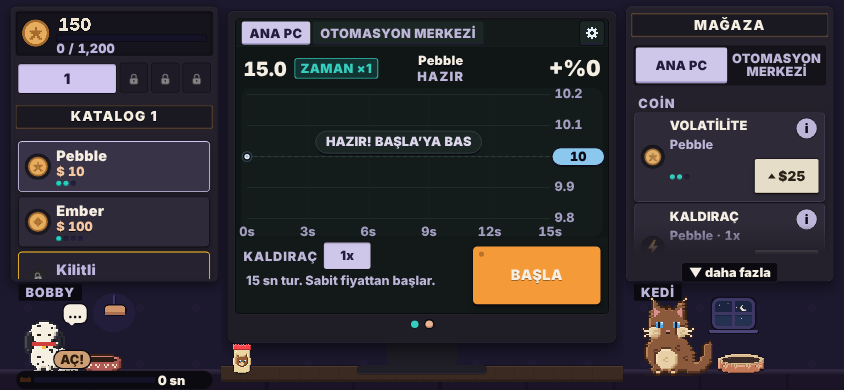
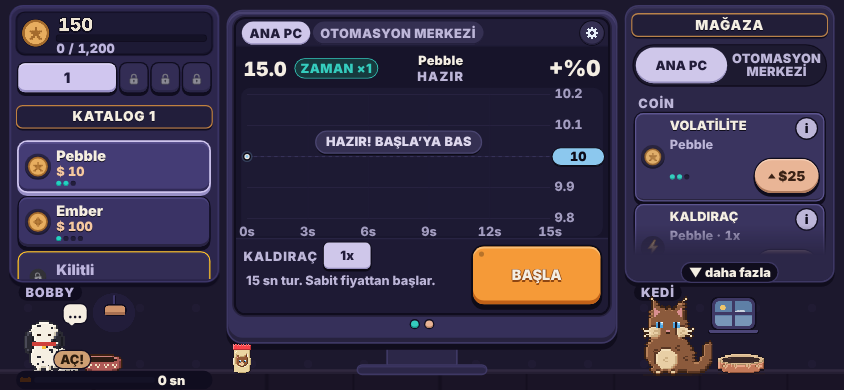
Tasarım Adım 5b: Adım 4 canlılığı korundu; masaüstü ölçüleri, odometre bakiye, mama ease-out, termal fiş — smoke 63/63
Claude-Session: https://claude.ai/code/session_01VDVDeJVYoXzWZHeVKGLAfX

diff --git a/index.html b/index.html
@@ -1038,6 +1038,114 @@ body.rm .pl{animation:none!important;transform:translate(-50%,-50%)!important}
 #stage.tel .info{top:12px!important;right:18px!important}#stage.tel #right .go{height:80px!important}#stage.tel #right .sc:not(.bob):not(.rcoin) .sm b{padding-right:60px!important}
 #stage.tel #right .go{z-index:2}#stage.tel .info{z-index:3}
 #cico{image-rendering:auto!important}
+
+/* =====================================================================
+   TUR 2 / ADIM 5b — Adım 4'ün renkleri ve canlılığı aynen; masaüstü (#stage:not(.tel)) için bilgisayara uygun ölçü ve oran.
+   Çocuksuluk renkle değil ORANLA azaltıldı: ağırlık 900→800, köşe yarıçapı küçük, alt basamak 6–9→3–5 px, dolgular sıkı.
+   Telefon (#stage.tel) Adım 4 ölçüleriyle aynen kalır.
+   ===================================================================== */
+body{font-variant-numeric:tabular-nums}
+/* ağırlık ve harf aralığı */
+#stage:not(.tel) :is(.tn b,.tn .num,.sm b,.sm .st,.sign,.shd,.tb,#right .go,.mx,.sw,.br small,#stabs button,.osbar .tabs button,#hT,#hN,#lcdS,#lcdT,#hP,#hPs,#lvr,#lvr .pbtn,#note,#main,.botp .cap,#shint,#cnx,.rc .rh b,.it,.mh,.mp p,.mp .pbtn,#news,.chin span,#receipt){font-weight:800!important}
+#stage:not(.tel) :is(.sm .st,#note,.mp p,#hPs,.br small){font-weight:700!important}
+#stage:not(.tel) :is(.tn b,.sm b,.rc .rh b){letter-spacing:.2px!important;text-shadow:0 1px 0 var(--k-ol)!important}
+#stage:not(.tel) :is(.sign,#sign,#msign){letter-spacing:1.5px!important}
+/* paneller ve monitör: daha az şişkin */
+#stage:not(.tel) #left::before,#stage:not(.tel) #right::before{border-radius:18px!important;box-shadow:0 0 0 4px var(--k-rim),0 6px 0 4px var(--k-ol),inset 0 3px 0 #3A3459!important}
+#stage:not(.tel) #mon{border-radius:24px!important;box-shadow:0 0 0 4px var(--k-rim),0 8px 0 4px var(--k-ol),inset 0 4px 0 #48416F,inset 0 -6px 0 #27223E!important}
+#stage:not(.tel) .swrap{border-radius:14px!important}#stage:not(.tel) .screen{clip-path:inset(0 round 12px)!important}
+#stage:not(.tel) #cashp{border-radius:14px!important;height:92px!important}
+/* coin kartları */
+#stage:not(.tel) .tk{height:76px!important;margin:4px 8px 10px!important;padding:6px 12px!important;gap:10px!important;border-radius:12px!important;
+ box-shadow:0 0 0 2px var(--k-ol),0 4px 0 2px var(--k-ol),inset 0 2px 0 var(--k-cdl),inset 0 -4px 0 var(--k-cde)!important}
+#stage:not(.tel) .tk.on{box-shadow:0 0 0 3px var(--k-li),0 4px 0 3px var(--k-lid),inset 0 2px 0 #5A5288,inset 0 -4px 0 #312B52!important}
+#stage:not(.tel) .tk.boss{margin-top:16px!important;box-shadow:0 0 0 2px var(--k-ol),0 4px 0 2px var(--k-ol),inset 0 2px 0 #5D4166,inset 0 -4px 0 #36243C!important}
+#stage:not(.tel) .tk.boss.on{box-shadow:0 0 0 3px var(--k-li),0 4px 0 3px var(--k-lid),inset 0 2px 0 #5D4166,inset 0 -4px 0 #36243C!important}
+#stage:not(.tel) .tk.lk{box-shadow:0 0 0 2px var(--k-ol),0 4px 0 2px var(--k-ol),inset 0 0 0 2px #3B3659!important}
+#stage:not(.tel) .tk.lk.nx{box-shadow:0 0 0 2px var(--k-au),0 4px 0 2px var(--k-ol),inset 0 0 0 2px #3B3659!important}
+#stage:not(.tel) .tk .ci{width:46px!important;height:46px!important;padding:4px}
+#stage:not(.tel) .tn b{font-size:19px!important}
+#stage:not(.tel) .tn .num,#stage:not(.tel) #list .tn .num{font-size:17px!important;margin:0 0 3px!important}
+#stage:not(.tel) .tk.lk .tn b{font-size:18px!important}#stage:not(.tel) .tk.lk img.lkic{width:30px!important;height:30px!important}
+#stage:not(.tel) .tk .lkp small{font-size:17px}#stage:not(.tel) .tk .lkp .lbar{height:9px}
+#stage:not(.tel) .tk .bb{font-size:12px!important;line-height:20px!important;top:-10px!important;padding:0 8px!important}
+#stage:not(.tel) .sg i{flex-basis:9px!important;height:9px!important}#stage:not(.tel) .sg{height:11px!important;gap:4px!important}
+/* sekmeler ve başlık plakaları */
+#stage:not(.tel) #tabs{height:50px!important}
+#stage:not(.tel) .tb,#stage:not(.tel) #tabs .tb{height:38px!important;font-size:18px!important;border-radius:10px!important;box-shadow:0 0 0 2px var(--k-ol),0 4px 0 2px var(--k-ol),inset 0 2px 0 var(--k-cdl),inset 0 -3px 0 var(--k-cde)!important}
+#stage:not(.tel) .tb.on,#stage:not(.tel) #tabs .tb.on{box-shadow:0 0 0 2px var(--k-ol),0 4px 0 2px var(--k-ol),inset 0 2px 0 var(--k-lil),inset 0 -3px 0 var(--k-lid)!important}
+#stage:not(.tel) #tabs .tb.lk img{width:18px!important;height:18px!important}
+#stage:not(.tel) .sign,#stage:not(.tel) #sign,#stage:not(.tel) #msign{height:38px!important;line-height:38px!important;font-size:19px!important;margin:8px 8px 6px!important;border-radius:10px!important;box-shadow:inset 0 0 0 2px #B9824A,0 3px 0 0 var(--k-ol)!important}
+#stage:not(.tel) #robsec .rsign{height:34px!important;line-height:34px!important;font-size:15px!important;border-radius:10px!important}
+#stage:not(.tel) #cnx{font-size:16px!important;top:66px!important}#stage:not(.tel) #cbar{top:52px!important;height:12px!important}
+/* mağaza */
+#stage:not(.tel) #stabs{margin:4px 12px 2px!important}
+#stage:not(.tel) #stabs button{height:36px!important;font-size:13px!important}
+#stage:not(.tel) .shd,#stage:not(.tel) #right .shd{font-size:15px!important;letter-spacing:2px!important;margin:10px 4px 2px!important}
+#stage:not(.tel) #shop{gap:10px!important;padding:6px 12px 70px!important}
+#stage:not(.tel) .sc,#stage:not(.tel) .rc{min-height:0!important;padding:10px 12px 12px!important;border-radius:12px!important;margin-bottom:4px;
+ box-shadow:0 0 0 2px var(--k-ol),0 4px 0 2px var(--k-ol),inset 0 2px 0 var(--k-cdl),inset 0 -4px 0 var(--k-cde)!important}
+#stage:not(.tel) .sc.can{box-shadow:0 0 0 2px var(--k-ol),0 4px 0 2px var(--k-ol),inset 0 0 0 2px #5D5590,inset 0 -4px 0 var(--k-cde)!important}
+#stage:not(.tel) .sc.lk{box-shadow:0 0 0 2px var(--k-ol),0 4px 0 2px var(--k-ol),inset 0 0 0 2px #3B3659!important}
+#stage:not(.tel) .sc.fin{box-shadow:0 0 0 3px var(--k-au),0 4px 0 3px var(--k-aud),inset 0 2px 0 #7A63C6!important}
+#stage:not(.tel) .sc .si{width:44px!important;height:44px!important}#stage:not(.tel) .sc .si img{width:32px!important;height:32px!important}
+#stage:not(.tel) #right .sc:not(.bob):not(.rcoin){grid-template-columns:44px minmax(0,1fr) auto!important;column-gap:10px!important}
+#stage:not(.tel) .sm b,#stage:not(.tel) #right .sm b{font-size:17px!important}
+#stage:not(.tel) .sm .st{font-size:14px!important}
+#stage:not(.tel) #right .go{height:32px!important;font-size:16px!important;min-width:84px!important;padding:0 12px!important;margin:0 0 4px!important;border-radius:10px!important;
+ box-shadow:0 0 0 2px var(--k-ol),0 3px 0 2px var(--k-ol),inset 0 2px 0 var(--k-pel),inset 0 -3px 0 var(--k-ped)!important}
+#stage:not(.tel) #right .go[data-dis],#stage:not(.tel) #right .go.unl[data-dis]{box-shadow:0 0 0 1px #8A84AA,0 0 0 3px var(--k-ol),0 3px 0 3px var(--k-ol),inset 0 -3px 0 #39345A!important}
+#stage:not(.tel) #right .go.unl{box-shadow:0 0 0 2px var(--k-ol),0 3px 0 2px var(--k-ol),inset 0 2px 0 #7BE6DA,inset 0 -3px 0 var(--k-tqd)!important}
+#stage:not(.tel) #right .go:not([data-dis]):active{transform:translateY(3px)!important;box-shadow:0 0 0 2px var(--k-ol),0 0 0 2px var(--k-ol),inset 0 2px 0 var(--k-pel),inset 0 -2px 0 var(--k-ped)!important}
+#stage:not(.tel) #right .go i.up{border-left-width:5px!important;border-right-width:5px!important;border-bottom-width:7px!important}
+#stage:not(.tel) .mx,#stage:not(.tel) #right .mx{font-size:13px!important;line-height:24px!important;border-radius:8px!important}
+#stage:not(.tel) .info{width:22px!important;height:22px!important;font-size:13px!important;line-height:22px!important;box-shadow:0 0 0 2px var(--k-ol)!important}
+#stage:not(.tel) .sw,#stage:not(.tel) #right .sw,#stage:not(.tel) #right .sc.bob .bh .sw{width:92px!important;height:32px!important;font-size:13px!important;line-height:32px!important;padding:0 8px 0 34px!important;box-shadow:0 0 0 2px var(--k-ol),inset 0 3px 0 #3A3558!important}
+#stage:not(.tel) .sw.on,#stage:not(.tel) #right .sw.on{padding:0 34px 0 8px!important;box-shadow:0 0 0 2px var(--k-ol),inset 0 3px 0 #1E9C90!important}
+#stage:not(.tel) .sw i{width:24px!important;height:24px!important;top:4px!important;left:4px!important}#stage:not(.tel) .sw.on i{left:auto!important;right:4px!important}
+#stage:not(.tel) .br small,#stage:not(.tel) #right .sc.bob .br small{font-size:14px!important}
+#stage:not(.tel) #right .sc.bob .bh .st{font-size:13px!important}
+#stage:not(.tel) .br .pbtn{width:40px!important;height:32px!important;border-radius:10px!important;box-shadow:0 0 0 2px var(--k-ol),0 3px 0 2px var(--k-ol),inset 0 -3px 0 var(--k-ped)!important}
+#stage:not(.tel) .br .pbtn img{width:22px!important;height:22px!important}
+#stage:not(.tel) .rc .rh b{font-size:17px!important}#stage:not(.tel) .rc .rh small{font-size:14px!important}
+#stage:not(.tel) #shint{font-size:14px!important;line-height:24px!important}
+/* hayvan köşeleri */
+#stage:not(.tel) .botp .cap{font-size:15px!important;line-height:24px!important;padding:0 10px!important;border-radius:8px!important}
+#stage:not(.tel) #bbub{top:34px!important}
+/* monitör içi */
+#stage:not(.tel) .osbar .tabs button{font-size:13px!important;height:26px!important}
+#stage:not(.tel) #hT{font-size:40px!important}#stage:not(.tel) #hN{font-size:22px!important}
+#stage:not(.tel) #lcdT{font-size:13px!important;line-height:24px!important}#stage:not(.tel) #lcdS{font-size:13px!important}
+#stage:not(.tel) #hP{font-size:38px!important}#stage:not(.tel) #hPs{font-size:13px!important}#stage:not(.tel) #hP[data-d]::before{font-size:20px}
+#stage:not(.tel) #lvr{font-size:14px!important}
+#stage:not(.tel) #lvr .pbtn{height:32px!important;min-width:48px!important;font-size:16px!important;border-radius:8px!important;box-shadow:0 0 0 2px #0D0B17,0 3px 0 2px #0D0B17,inset 0 -3px 0 #2A1F52!important}
+#stage:not(.tel) #lvr .pbtn.ac{box-shadow:0 0 0 2px #0D0B17,0 3px 0 2px #0D0B17,inset 0 -3px 0 var(--k-lid)!important}
+#stage:not(.tel) #lvr .lvh{font-size:14px}
+#stage:not(.tel) #note{font-size:16px!important}
+#stage:not(.tel) #main{width:270px!important;height:68px!important;font-size:28px;border-radius:16px!important;letter-spacing:.5px!important;
+ box-shadow:0 0 0 3px #0D0B17,0 5px 0 3px #0D0B17,inset 0 3px 0 #F8BD75,inset 0 -5px 0 var(--k-ord)!important}
+#stage:not(.tel) #main.buy{box-shadow:0 0 0 3px #0D0B17,0 5px 0 3px #0D0B17,inset 0 3px 0 #7DD8CD,inset 0 -5px 0 #1C8A7F!important}
+#stage:not(.tel) #main.sell{box-shadow:0 0 0 3px var(--k-li),0 0 0 5px #0D0B17,0 4px 0 5px #0D0B17,inset 0 3px 0 #8EDBBC,inset 0 -4px 0 #2E8C68!important}
+#stage:not(.tel) #main.sell.dn{box-shadow:0 0 0 3px var(--k-li),0 0 0 5px #0D0B17,0 4px 0 5px #0D0B17,inset 0 3px 0 #4C4577,inset 0 -4px 0 #29243F!important}
+#stage:not(.tel) #main:not(:disabled):active{transform:translateY(4px)!important}
+#stage:not(.tel) #main:disabled{box-shadow:none!important}
+#stage:not(.tel) .chin span{font-size:15px!important;border-radius:8px!important}
+#stage:not(.tel) #news{font-size:17px!important}
+#stage:not(.tel) .screen.bossin #hN::after{font-size:12px;line-height:20px}
+#stage:not(.tel) .tile,#stage:not(.tel) .tile:nth-child(odd){border-radius:12px!important}
+#stage:not(.tel) #scene .mp,#stage:not(.tel) .mp{border-radius:18px!important;box-shadow:0 0 0 4px var(--k-rim),0 0 0 6px var(--k-ol),0 8px 0 6px var(--k-ol),inset 0 3px 0 #3A3459!important}
+#stage:not(.tel) #scene .it,#stage:not(.tel) .it{font-size:17px!important;padding:8px 0!important}#stage:not(.tel) #scene .mp p,#stage:not(.tel) .mp p{font-size:16px!important}
+#stage:not(.tel) #scene .mh,#stage:not(.tel) .mh{font-size:24px!important}
+#stage:not(.tel) #scene .mp .pbtn,#stage:not(.tel) .mp .pbtn{height:32px!important;font-size:14px!important;box-shadow:0 0 0 2px var(--k-ol),0 3px 0 2px var(--k-ol),inset 0 -3px 0 #463673!important}
+#stage:not(.tel) #scene .mp .pbtn.on,#stage:not(.tel) .mp .pbtn.on{box-shadow:0 0 0 2px var(--k-ol),0 3px 0 2px var(--k-ol),inset 0 -3px 0 var(--k-tqd)!important}
+#stage:not(.tel) #mc{width:38px!important;height:38px!important}#stage:not(.tel) #mc::before,#stage:not(.tel) #mc::after{left:10px;top:16px;width:18px}
+/* tur sonu fişi: termal kâğıt; kâr/zarar renkleri canlı */
+#receipt{background:#EFE8D8!important;color:#2A2520!important;font-family:"JetBrains Mono","SF Mono","Cascadia Mono","Roboto Mono",ui-monospace,Menlo,Consolas,monospace!important;font-weight:700!important;border-radius:0!important;padding:12px 16px 18px!important;
+ box-shadow:0 6px 14px rgba(0,0,0,.45)!important;-webkit-mask-image:linear-gradient(135deg,transparent 4px,#000 0) bottom left/8px 8px repeat-x,linear-gradient(#000,#000) top/100% calc(100% - 6px) no-repeat;mask-image:linear-gradient(135deg,transparent 4px,#000 0) bottom left/8px 8px repeat-x,linear-gradient(#000,#000) top/100% calc(100% - 6px) no-repeat}
+#receipt h3{font-family:inherit!important;letter-spacing:2px!important;text-align:center;border-bottom:2px dashed #A79F8E;color:#2A2520!important}
+#receipt h3.up{color:#16805F!important}#receipt h3.dn{color:#9A5C1E!important}
+#receipt .rw,#receipt .strip{border-top:1px dashed #B5AD9C!important;color:#2A2520!important}
+#receipt .up{color:#16805F!important}#receipt .dn{color:#9A5C1E!important}#receipt .strip{color:#5A5248!important}
 </style><style>/* === TELEFON: hep yatay oyun (dikeyde 90° döndürülür), sayfa kaymaz, çift dokunuşta büyümez === */
 html,body{position:fixed;inset:0;width:100%;height:100%;overflow:hidden;margin:0;overscroll-behavior:none;-webkit-user-select:none;user-select:none;-webkit-touch-callout:none;-webkit-tap-highlight-color:transparent;-webkit-text-size-adjust:100%}
 *{touch-action:manipulation}canvas,img{-webkit-user-drag:none}#list,#shop,.modal .mp,#mb{touch-action:pan-x pan-y;-webkit-overflow-scrolling:touch}
@@ -1581,10 +1689,19 @@ function numTip(u){const v=Number(u)/1e4,fr=u%10000n,full=(u/10000n).toLocaleStr
 /* v33: eski kart/sayı hover ipuçları kaldırıldı; yeni sistem view_i (yalnız 'i' ikonları) */
 /* K3: para yazısı — yuvarlak kalın yazı, koyu kontur + alt gölge (2x çözünürlük) */
 const KF='ui-rounded, "SF Pro Rounded", "Nunito", "Varela Round", "Arial Rounded MT Bold", "Trebuchet MS", system-ui, sans-serif';
-function ckCash(txt){const cv=$('#cashv'),x=cv.getContext('2d');let fs=84;x.font='900 '+fs+'px '+KF;while(x.measureText(txt).width>440&&fs>40){fs-=4;x.font='900 '+fs+'px '+KF}
- const w=Math.ceil(x.measureText(txt).width)+24,h=104;if(cv.width!==w||cv.height!==h){cv.width=w;cv.height=h}x.clearRect(0,0,w,h);x.font='900 '+fs+'px '+KF;x.textBaseline='middle';x.lineJoin='round';
- const y=h/2-2;x.lineWidth=14;x.strokeStyle='#100D1D';x.strokeText(txt,12,y+6);x.fillStyle='#100D1D';x.fillText(txt,12,y+6);x.strokeText(txt,12,y);x.fillStyle='#EDE5D6';x.fillText(txt,12,y);
- x.save();x.beginPath();x.rect(0,0,w,y-fs*.08);x.clip();x.fillStyle='#F6F0E6';x.fillText(txt,12,y);x.restore()}
+/* Tur 2/Adım 5b: bakiye odometresi — değişen hane eskisi yukarı kayarken yenisi alttan gelir (450 ms, ease-out);
+   haneler sabit genişlikte (tabular); hareket azaltmada anında. Renk/kontur Adım 4 ile aynı. */
+const ODO={cur:'',from:'',to:'',t0:0,raf:0};
+function odoDraw(a,b,k){const cv=$('#cashv'),x=cv.getContext('2d'),n=Math.max(a.length,b.length);a=a.padStart(n,' ');b=b.padStart(n,' ');
+ let fs=TEL?84:76;const F=f=>'800 '+f+'px '+KF;x.font=F(fs);const cw=c=>/[0-9 ]/.test(c)?x.measureText('0').width:x.measureText(c).width;
+ const wid=()=>{let w=0;for(let i=0;i<n;i++)w+=Math.max(cw(a[i]),cw(b[i]));return w};while(wid()>440&&fs>40){fs-=4;x.font=F(fs)}
+ const W=Math.ceil(wid())+24,H=104;if(cv.width!==W||cv.height!==H){cv.width=W;cv.height=H}x.clearRect(0,0,W,H);x.font=F(fs);x.textBaseline='middle';x.textAlign='center';x.lineJoin='round';
+ const y=H/2-2,D=fs*.95;let px=12,cx=0;
+ const put=(c,yy)=>{if(c===' ')return;x.lineWidth=10;x.strokeStyle='#100D1D';x.strokeText(c,cx,yy+4);x.fillStyle='#100D1D';x.fillText(c,cx,yy+4);x.strokeText(c,cx,yy);x.fillStyle='#EDE5D6';x.fillText(c,cx,yy)};
+ for(let i=0;i<n;i++){const w=Math.max(cw(a[i]),cw(b[i]));cx=px+w/2;if(a[i]===b[i]||k>=1)put(b[i],y);else{put(a[i],y-D*k);put(b[i],y+D*(1-k))}px+=w}}
+function ckCash(txt){const rm=(S.set&&S.set.rm)||(window.matchMedia&&matchMedia('(prefers-reduced-motion: reduce)').matches),prev=ODO.cur;ODO.cur=txt;cancelAnimationFrame(ODO.raf);
+ if(rm||!prev||prev===txt){odoDraw(txt,txt,1);return}ODO.from=prev;ODO.to=txt;ODO.t0=performance.now();
+ const step=now=>{const k=Math.min(1,(now-ODO.t0)/450);odoDraw(ODO.from,ODO.to,1-Math.pow(1-k,3));if(k<1)ODO.raf=requestAnimationFrame(step)};ODO.raf=requestAnimationFrame(step)}
 /* para sayacı: kısa count-up */
 let cashD=null,cashAf=0,cashLast='';
 function cashAnim(){cashAf=0;const t=Number(S.cash);cashD=t;   /* v46: para anında güncellenir */
@@ -1732,7 +1849,7 @@ function dropEnd(e){if(!G.drag)return;const k=G.drag;G.drag=null;$('#bowl').clas
  else{fl.style.display='none';fl.className='';flsh.style.display='none';if(k==='water'){S.bottles=1;save();ui()}}}
 document.addEventListener('pointerup',dropEnd);document.addEventListener('pointercancel',dropEnd);
 function startDrink(e){if(G.drink)return;const r=$('#bowl').getBoundingClientRect();G.drink={t0:performance.now(),pt:e.pointerType,raf:0};fl.className='pour';flsh.style.display='none';{const T=POURA*Math.PI/180,a=FBW*stK()/2,b=FBH*stK()/2,ox=a*Math.cos(T)-b*Math.sin(T),oy=a*Math.sin(T)+b*Math.cos(T);moveFl(r.left+r.width*.45+ox,r.top-16*stK()+oy)}   /* v42: paketin sol üst köşesi kabın üstünde; gövde sağda */$('#dbar').classList.add('on');pourStart();drinkTick()}
-function drinkTick(){const d=G.drink;if(!d)return;const p=Math.min(1,(performance.now()-d.t0)/4000);setSeg($('#dbar'),Math.floor(p*10),10);BOWL.fill=Math.max(BOWL.fill,p*.95);setBowl(BOWL.fill);if(p>=1)finishDrink();else d.raf=requestAnimationFrame(drinkTick)}
+function drinkTick(){const d=G.drink;if(!d)return;const p=Math.min(1,(performance.now()-d.t0)/4000);setSeg($('#dbar'),Math.floor((1-Math.pow(1-p,3))*10),10);BOWL.fill=Math.max(BOWL.fill,p*.95);setBowl(BOWL.fill);if(p>=1)finishDrink();else d.raf=requestAnimationFrame(drinkTick)}
 function endDrinkUI(){fl.style.display='none';fl.className='';flsh.style.display='none';$('#dbar').classList.remove('on')}
 function cancelDrink(){const d=G.drink;if(!d)return;cancelAnimationFrame(d.raf);G.drink=null;endDrinkUI();S.bottles=1;save();ui()}
 function finishDrink(){const d=G.drink;if(!d)return;G.drink=null;cancelAnimationFrame(d.raf);endDrinkUI();S.cash+=D(2);floatText('+$2',PX,PY,'#4CD08A');BOWL.fill=1;setBowl(1);CAT.eatUntil=performance.now()+7000;save();ui()}
@@ -2539,7 +2656,7 @@ function rr(x,a,b,w,h,r){x.beginPath();x.moveTo(a+r,b);x.arcTo(a+w,b,a+w,b+h,r);
    Renk: pozisyon açıkken oyuncunun ALIŞ fiyatına göre (üstü nane ▲, altı kehribar ▼); pozisyon yokken nötr gök mavisi.
    Tur 2/Adım 3: kırmızı-yeşil yok, nabız/nefes yok, ızgara sade. */
 function drawChart(now){const cv=$('#cv'),x=cv.getContext('2d'),c=COINS[G.ci];x.setTransform(CVS,0,0,CVS,0,0);x.shadowBlur=0;x.setLineDash([]);
- const L=26,R=SW-(TEL?136:84),T=TEL?178:128,B=SH2-(TEL?222:148),PW=R-L,PH=B-T,sp=c.pf,AF=TEL?30:22,act=(G.st==='active'||G.st==='done')&&G.K&&G.K.length,tn=act?G.tn:0,OLC='#0D0B17';
+ const L=26,R=SW-(TEL?136:84),T=TEL?178:128,B=SH2-(TEL?222:148),PW=R-L,PH=B-T,sp=c.pf,AF=TEL?30:17,act=(G.st==='active'||G.st==='done')&&G.K&&G.K.length,tn=act?G.tn:0,OLC='#0D0B17';
  x.fillStyle=c.boss?'#1F1529':'#17142A';x.fillRect(0,0,SW,SH2);
  rr(x,L-14,T-16,SW-L+2,PH+58,22);x.fillStyle=c.boss?'#281C38':'#1D1A33';x.fill();
  const N=Math.max(2,Math.round(PW*Math.max(tn,.05)/15/1.2)),ys=[];let mn=sp,mx=sp;

diff --git a/docs/tasarim/durum.md b/docs/tasarim/durum.md
@@ -29,6 +29,7 @@
 - Limit hatası alan ajan yeniden başlatılmaz; limit yenilenince SendMessage ile devam ettirilir.
 
 ## Günlük (en yeni üstte)
+- Adım 5 "cansız" bulundu (kullanıcı) → geri alındı. Adım 5b: Adım 4 canlılığı + masaüstü ölçüleri, odometre bakiye, mama ease-out, termal fiş (smoke 63/63).
 - Adım 5 bitti (ce98dd7, smoke 63/63). Döngü limit nedeniyle duraklatıldı. Kalanlar: 'HAZIR' hapı yuvarlak, bakiye ikonu gerçek para hissi değil, masa nesneleri yok, ana menü + final sahnesi yeni malzeme diline geçmedi.
 - Sabah: kullanıcı yeni tasarımı sitede gördü, beğendi; Adım 5 brifi yazıldı (olgunlaştırma).
 - 05:40 Kullanıcı: Konsept 3 + koyu arka plan; tek tasarımcı + eş zamanlı psikolog tartışması. index.html konsept-3'e geçti.
